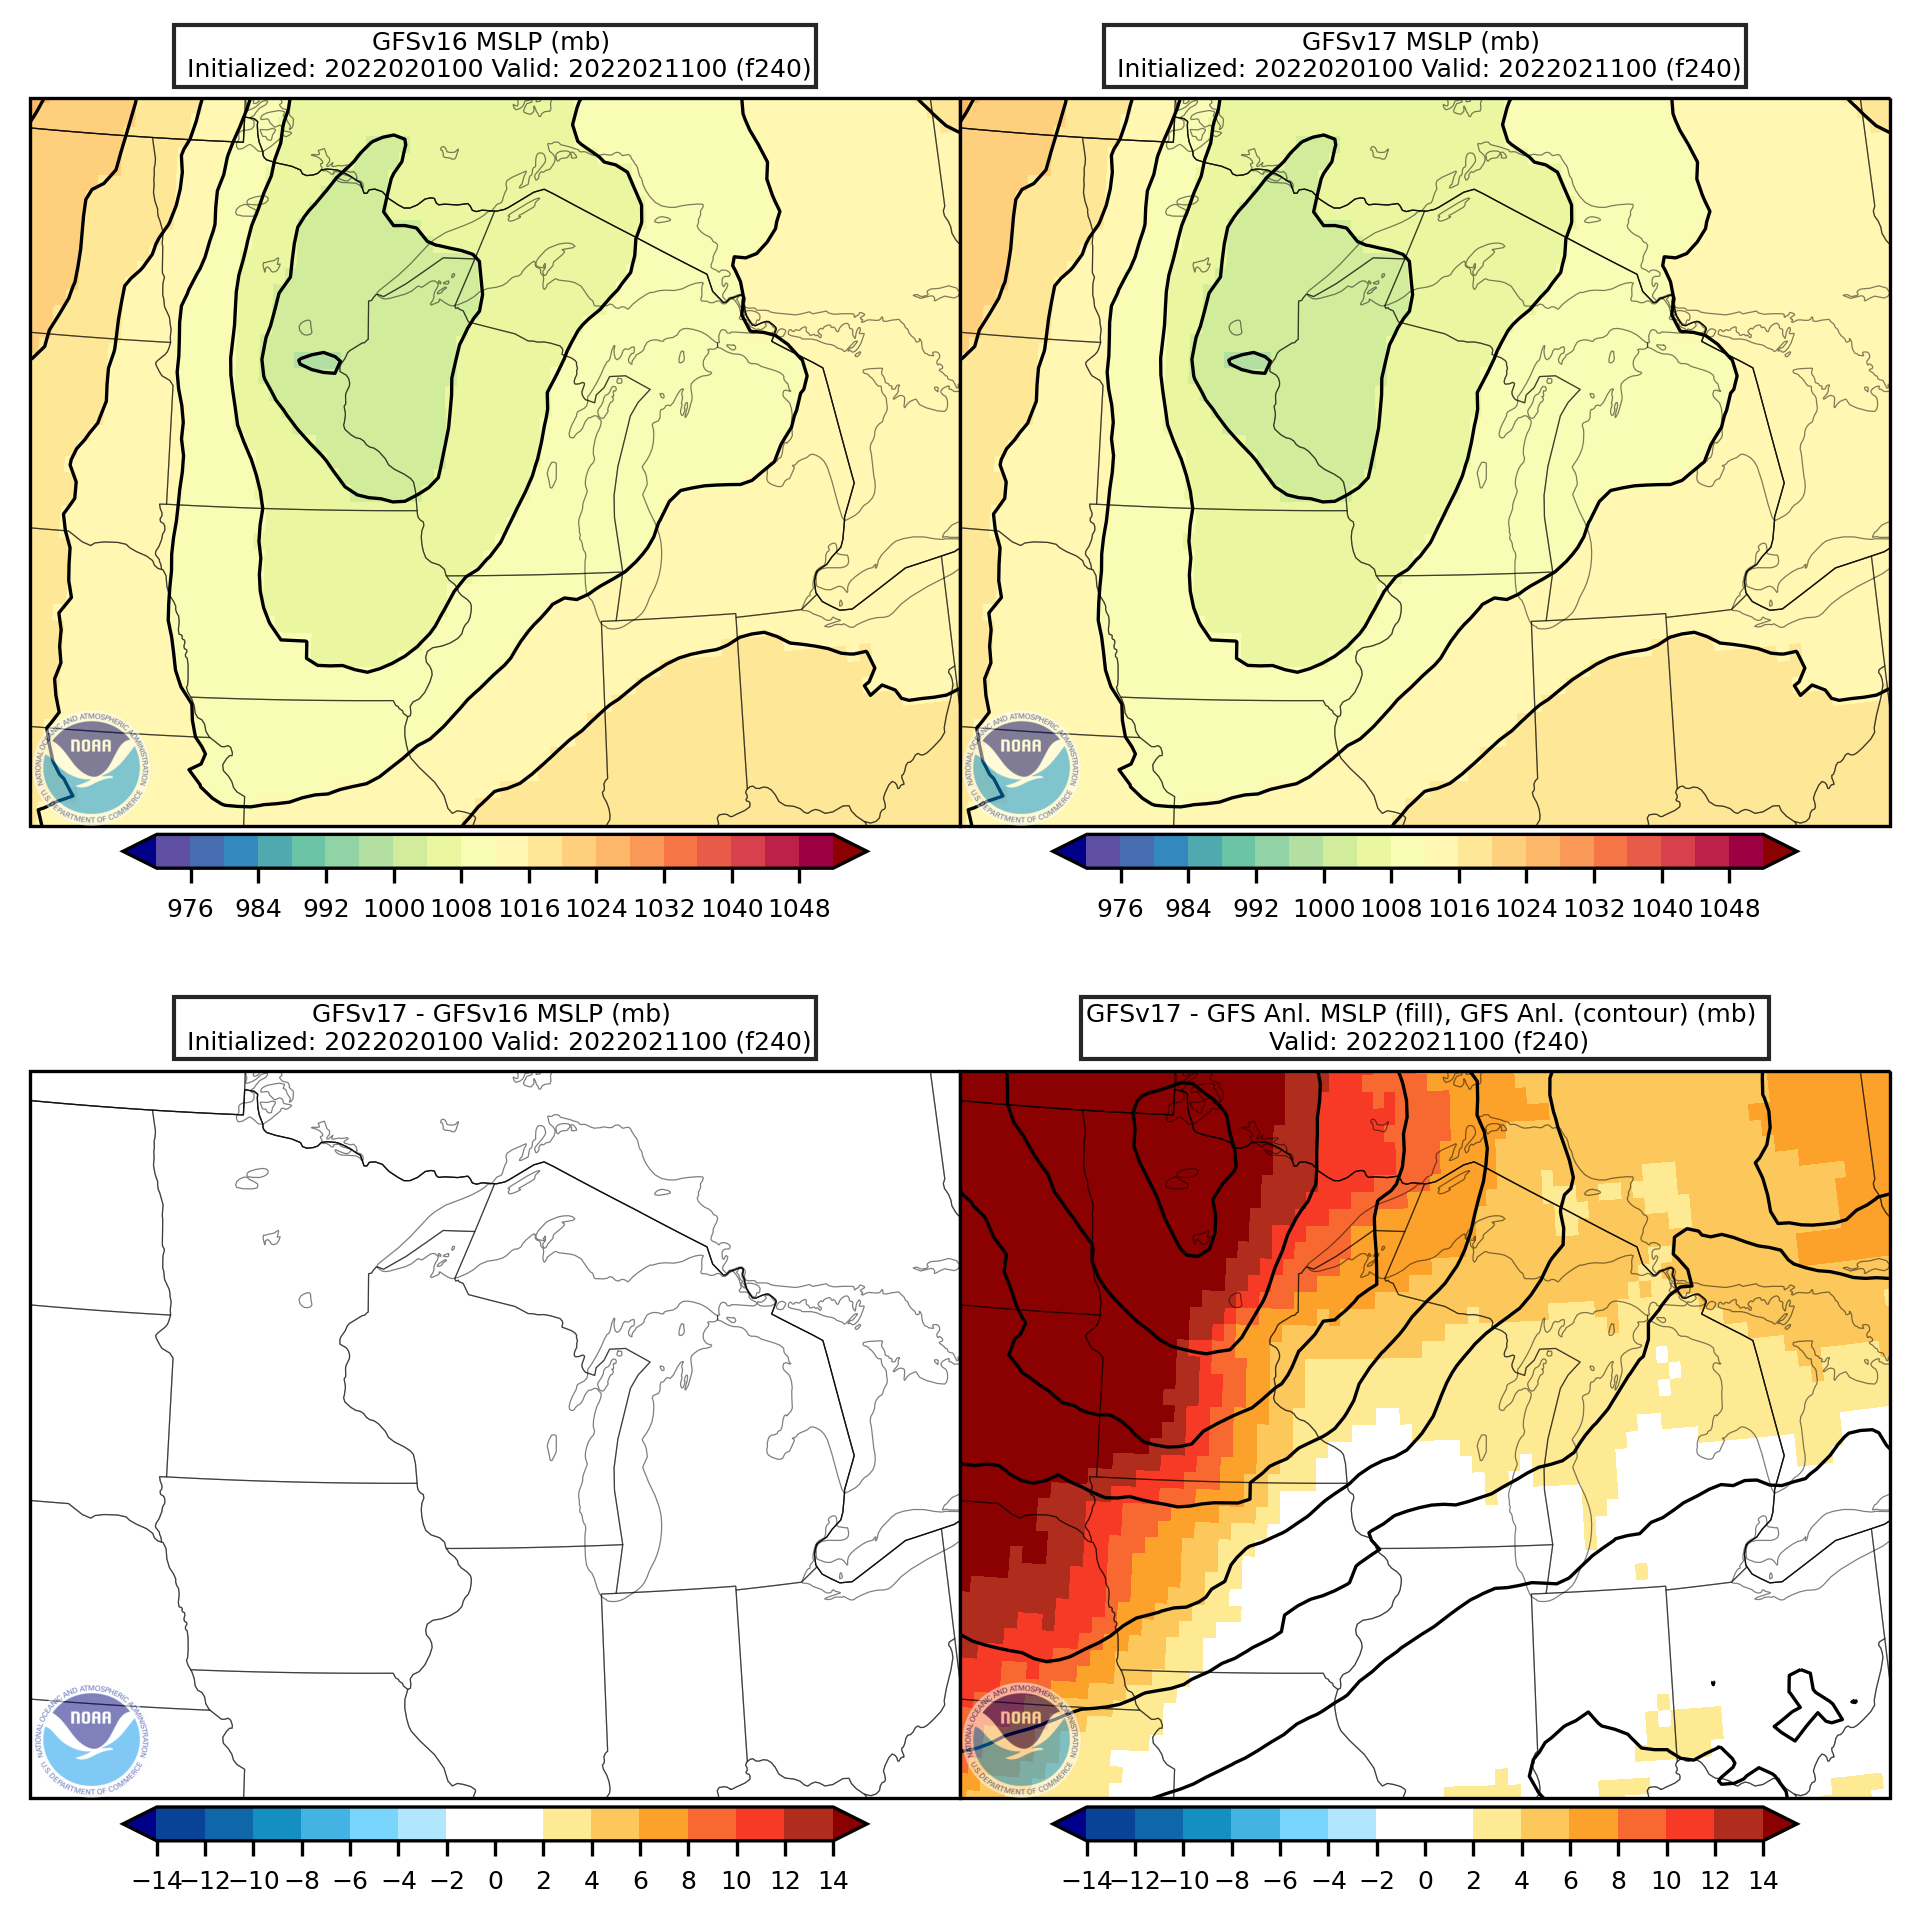
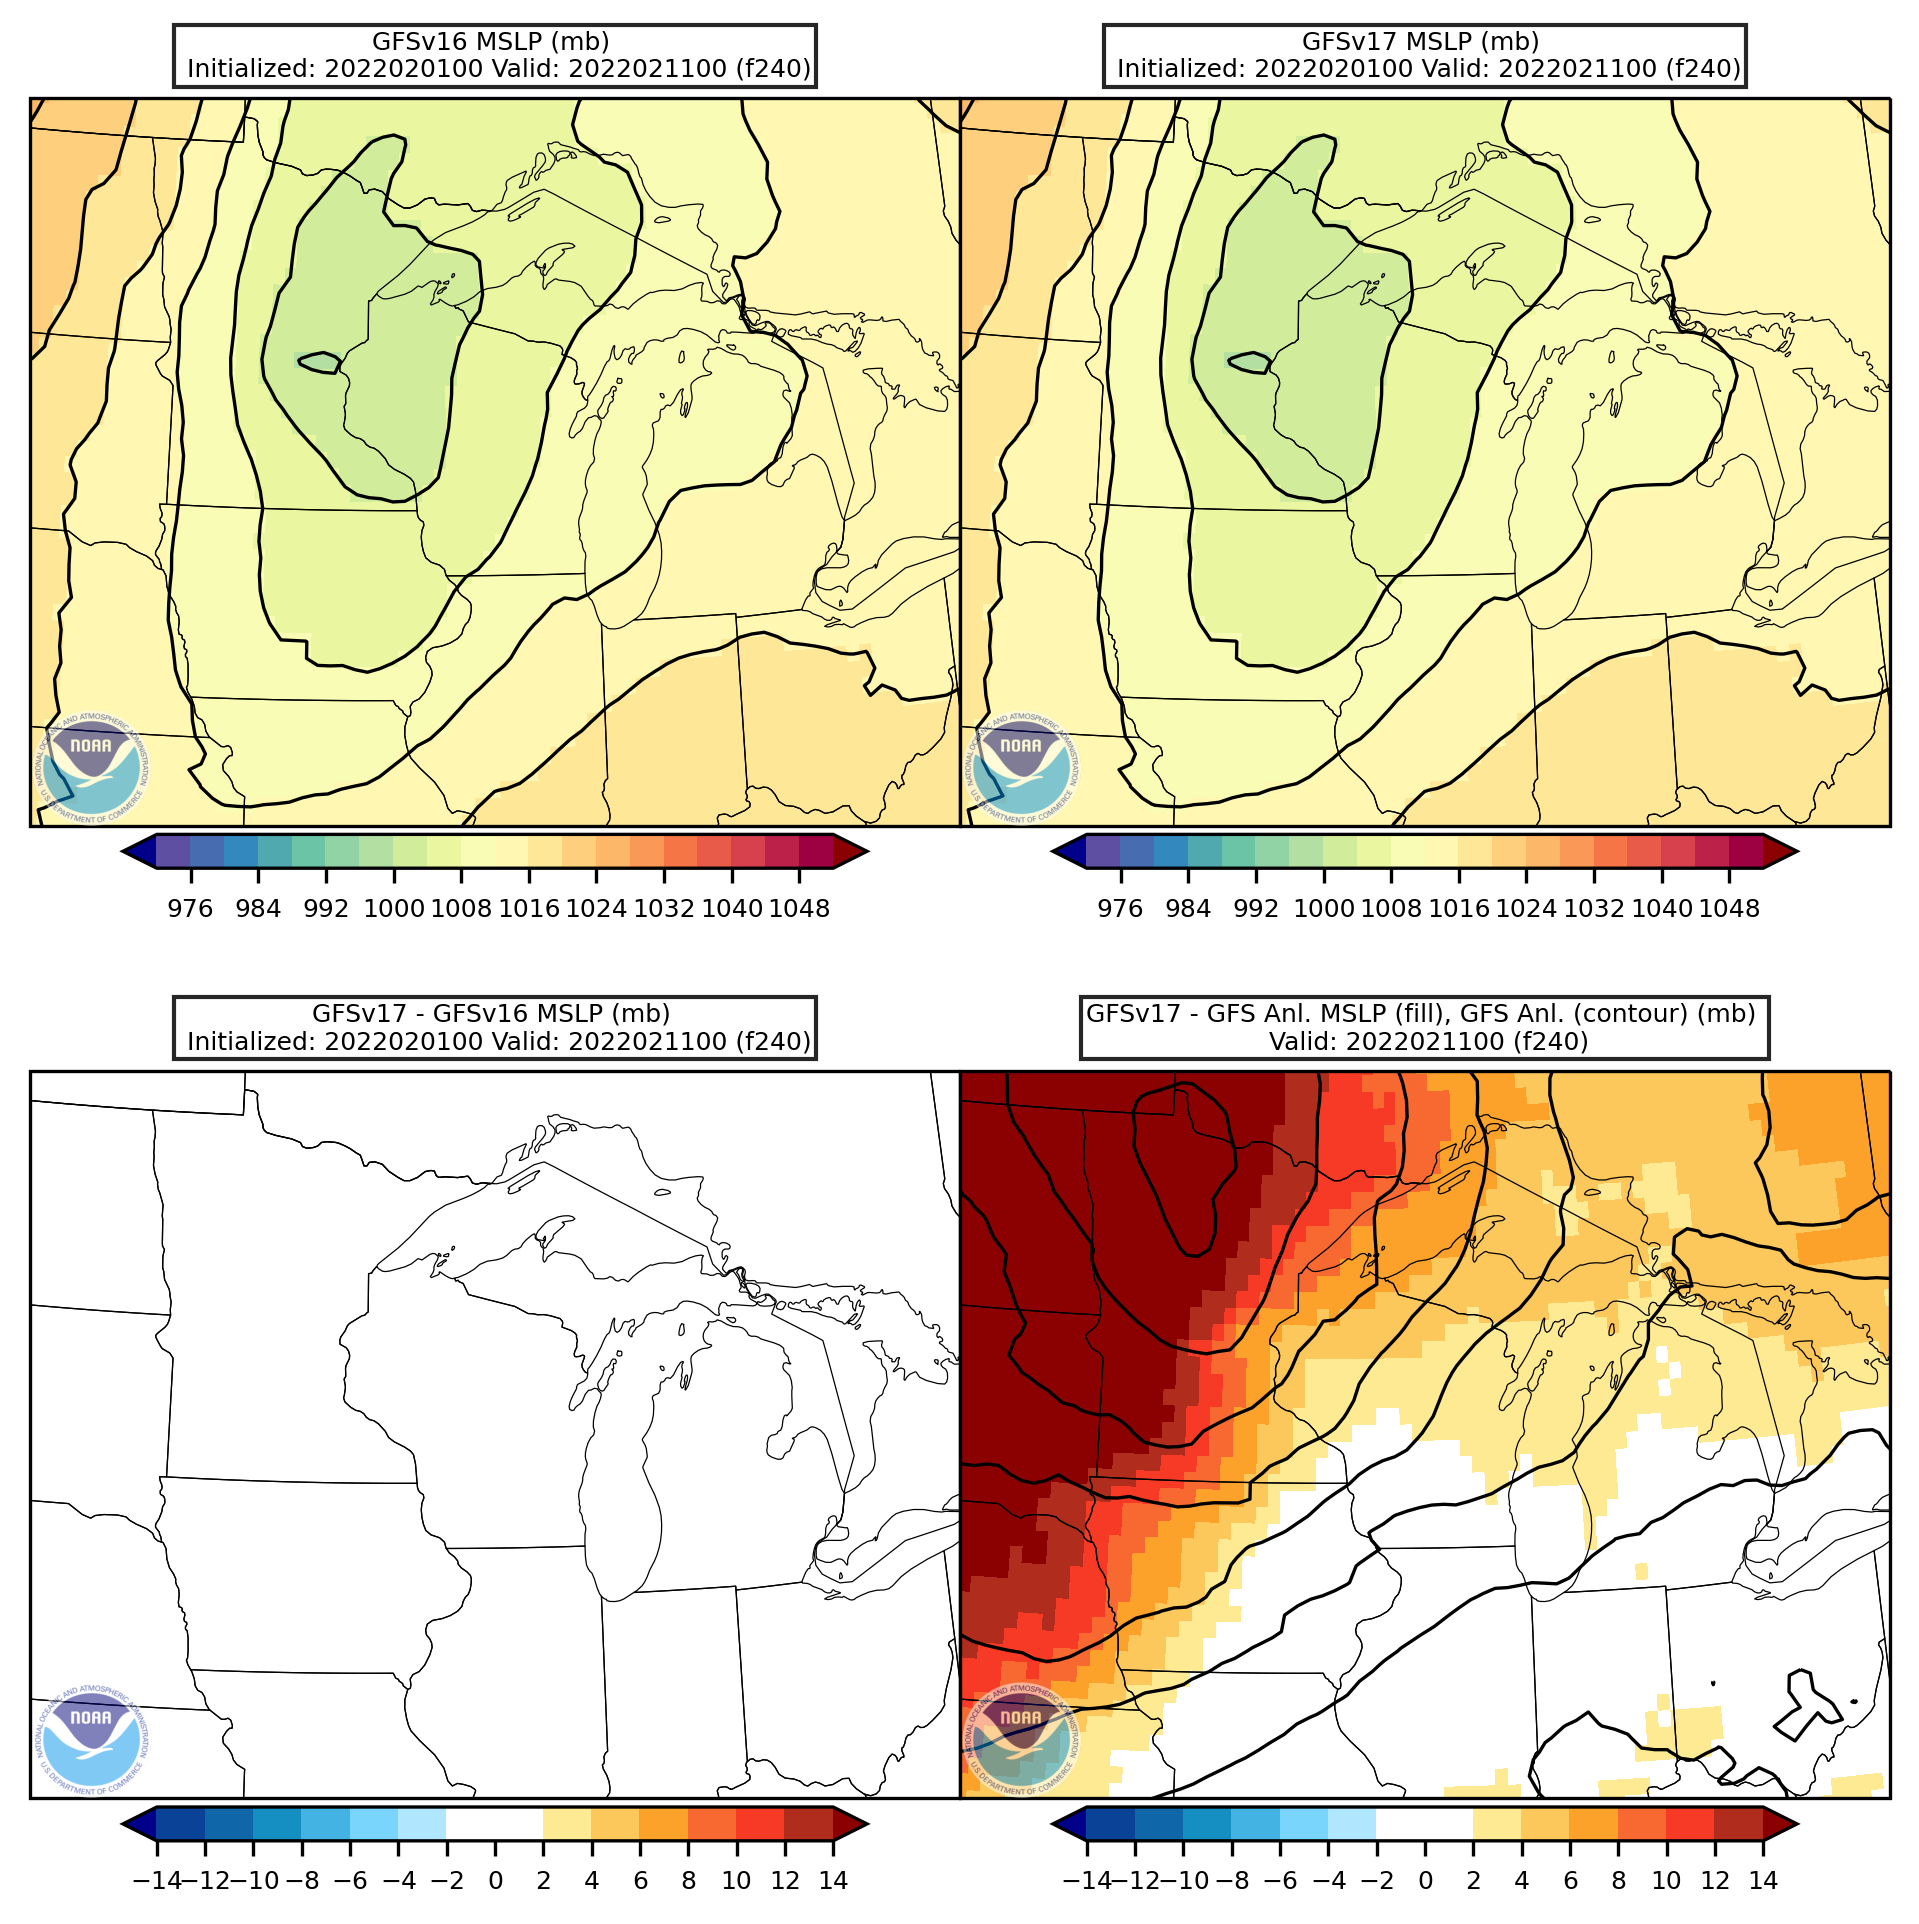
Updated Great Lakes outline in plotting script; added southcentral

diff --git a/plot_maps/plot_gfs_slp_4panel.py b/plot_maps/plot_gfs_slp_4panel.py
@@ -356,6 +356,15 @@ def create_figure():
     cen_lon = -91.5
     xextent=-422500
     yextent=52500
+  elif dom == 'southcentral':
+    llcrnrlon = -108.25
+    llcrnrlat = 24.05
+    urcrnrlon = -90.0
+    urcrnrlat = 37.25
+    cen_lat = 29.0
+    cen_lon = -98.0
+    xextent=-817500
+    yextent=-286000
 
 
 
@@ -420,16 +429,16 @@ def create_figure():
 #                    alpha=falpha)
   lakes=cfeature.NaturalEarthFeature('physical','lakes',back_res,
                     edgecolor='black',facecolor='none',
-                    linewidth=fline_wd_lakes,alpha=falpha)
+                    linewidth=fline_wd_lakes,zorder=1)
   coastlines=cfeature.NaturalEarthFeature('physical','coastline',
                     back_res,edgecolor='black',facecolor='none',
-                    linewidth=fline_wd,alpha=falpha)
+                    linewidth=fline_wd,zorder=1)
   states=cfeature.NaturalEarthFeature('cultural','admin_1_states_provinces',
                     back_res,edgecolor='black',facecolor='none',
-                    linewidth=fline_wd,alpha=falpha)
+                    linewidth=fline_wd,zorder=1)
   borders=cfeature.NaturalEarthFeature('cultural','admin_0_countries',
                     back_res,edgecolor='black',facecolor='none',
-                    linewidth=fline_wd,alpha=falpha)
+                    linewidth=fline_wd,zorder=1)
 
   # All lat lons are earth relative, so setup the associated projection correct for that data
   transform = ccrs.PlateCarree()
@@ -442,23 +451,43 @@ def create_figure():
     ax3.imshow(img, origin='upper', transform=transform)
     ax4.imshow(img, origin='upper', transform=transform)
 
-#  ax1.add_feature(land)
-  ax1.add_feature(lakes)
-  ax1.add_feature(states)
-  ax1.add_feature(borders)
-  ax1.add_feature(coastlines)
-  ax2.add_feature(lakes)
-  ax2.add_feature(states)
-  ax2.add_feature(borders)
-  ax2.add_feature(coastlines)
-  ax3.add_feature(lakes)
-  ax3.add_feature(states)
-  ax3.add_feature(borders)
-  ax3.add_feature(coastlines)
-  ax4.add_feature(lakes)
-  ax4.add_feature(states)
-  ax4.add_feature(borders)
-  ax4.add_feature(coastlines)
+#  ax1.add_feature(lakes)
+#  ax1.add_feature(states)
+#  ax1.add_feature(borders)
+#  ax1.add_feature(coastlines)
+  ax1.add_feature(cfeature.LAND.with_scale('50m'),facecolor='lightgray',edgecolor='face',linewidth=fline_wd) #Fill continents
+  ax1.add_feature(cfeature.LAKES.with_scale('50m'),facecolor='lightblue',edgecolor='face',linewidth=fline_wd) #Fill lakes
+  ax1.add_feature(cfeature.STATES.with_scale('50m'),linewidths=0.5,linestyle='solid',edgecolor='k',linewidth=fline_wd,zorder=4)
+  ax1.add_feature(cfeature.BORDERS.with_scale('50m'),linewidths=1.0,linestyle='solid',edgecolor='k',linewidth=fline_wd,zorder=4)
+  ax1.add_feature(cfeature.COASTLINE.with_scale('50m'),linewidths=1.0,linestyle='solid',edgecolor='k',linewidth=fline_wd,zorder=4)
+#  ax2.add_feature(lakes)
+#  ax2.add_feature(states)
+#  ax2.add_feature(borders)
+#  ax2.add_feature(coastlines)
+  ax2.add_feature(cfeature.LAND.with_scale('50m'),facecolor='lightgray',edgecolor='face',linewidth=fline_wd) #Fill continents
+  ax2.add_feature(cfeature.LAKES.with_scale('50m'),facecolor='lightblue',edgecolor='face',linewidth=fline_wd) #Fill lakes
+  ax2.add_feature(cfeature.STATES.with_scale('50m'),linewidths=0.5,linestyle='solid',edgecolor='k',linewidth=fline_wd,zorder=4)
+  ax2.add_feature(cfeature.BORDERS.with_scale('50m'),linewidths=1.0,linestyle='solid',edgecolor='k',linewidth=fline_wd,zorder=4)
+  ax2.add_feature(cfeature.COASTLINE.with_scale('50m'),linewidths=1.0,linestyle='solid',edgecolor='k',linewidth=fline_wd,zorder=4)
+#  ax3.add_feature(lakes)
+#  ax3.add_feature(states)
+#  ax3.add_feature(borders)
+#  ax3.add_feature(coastlines)
+  ax3.add_feature(cfeature.LAND.with_scale('50m'),facecolor='lightgray',edgecolor='face',linewidth=fline_wd) #Fill continents
+  ax3.add_feature(cfeature.LAKES.with_scale('50m'),facecolor='lightblue',edgecolor='face',linewidth=fline_wd) #Fill lakes
+  ax3.add_feature(cfeature.STATES.with_scale('50m'),linewidths=0.5,linestyle='solid',edgecolor='k',linewidth=fline_wd,zorder=4)
+  ax3.add_feature(cfeature.BORDERS.with_scale('50m'),linewidths=1.0,linestyle='solid',edgecolor='k',linewidth=fline_wd,zorder=4)
+  ax3.add_feature(cfeature.COASTLINE.with_scale('50m'),linewidths=1.0,linestyle='solid',edgecolor='k',linewidth=fline_wd,zorder=4)
+#  ax4.add_feature(lakes)
+#  ax4.add_feature(states)
+#  ax4.add_feature(borders)
+#  ax4.add_feature(coastlines)
+  ax4.add_feature(cfeature.LAND.with_scale('50m'),facecolor='lightgray',edgecolor='face',linewidth=fline_wd) #Fill continents
+  ax4.add_feature(cfeature.LAKES.with_scale('50m'),facecolor='lightblue',edgecolor='face',linewidth=fline_wd) #Fill lakes
+  ax4.add_feature(cfeature.STATES.with_scale('50m'),linewidths=0.5,linestyle='solid',edgecolor='k',linewidth=fline_wd,zorder=4)
+  ax4.add_feature(cfeature.BORDERS.with_scale('50m'),linewidths=1.0,linestyle='solid',edgecolor='k',linewidth=fline_wd,zorder=4)
+  ax4.add_feature(cfeature.COASTLINE.with_scale('50m'),linewidths=1.0,linestyle='solid',edgecolor='k',linewidth=fline_wd,zorder=4)
+
 
   # Map/figure has been set up here, save axes instances for use again later
   keep_ax_lst_1 = ax1.get_children()[:]
@@ -524,45 +553,45 @@ def plot_set_1():
   xmax = int(round(xmax))
   ymax = int(round(ymax))
 
-  cs_1 = ax1.pcolormesh(lon_shift,lat_shift,slp_1,vmin=5,norm=norm,transform=transform,cmap=cm1)
+  cs_1 = ax1.pcolormesh(lon_shift,lat_shift,slp_1,vmin=5,norm=norm,transform=transform,cmap=cm1,zorder=2)
   cs_1.cmap.set_under('darkblue')
   cs_1.cmap.set_over('darkred')
-  cs_1b = ax1.contour(lon_shift,lat_shift,slp_1,np.arange(940,1060,4),colors='black',linewidths=thick,transform=transform)
+  cs_1b = ax1.contour(lon_shift,lat_shift,slp_1,np.arange(940,1060,4),colors='black',linewidths=thick,transform=transform,zorder=3)
   cbar1 = plt.colorbar(cs_1,ax=ax1,orientation='horizontal',pad=0.01,ticks=clevs_thin,shrink=0.8,extend='both')
 #  cbar1.set_label(units,fontsize=6)
   cbar1.ax.tick_params(labelsize=6)
   ax1.text(.5,1.03,'GFSv16 MSLP ('+units+') \n Initialized: '+itime+' Valid: '+vtime + ' (f'+fhour+')',horizontalalignment='center',fontsize=6,transform=ax1.transAxes,bbox=dict(facecolor='white',alpha=0.85,boxstyle='square,pad=0.2'))
-  ax1.imshow(im,aspect='equal',alpha=0.5,origin='upper',extent=(xmin,xextent,ymin,yextent),zorder=4)
+  ax1.imshow(im,aspect='equal',alpha=0.5,origin='upper',extent=(xmin,xextent,ymin,yextent),zorder=5)
 
-  cs_2 = ax2.pcolormesh(lon_shift,lat_shift,slp_2,vmin=5,norm=norm,transform=transform,cmap=cm2)
+  cs_2 = ax2.pcolormesh(lon_shift,lat_shift,slp_2,vmin=5,norm=norm,transform=transform,cmap=cm2,zorder=2)
   cs_2.cmap.set_under('darkblue')
   cs_2.cmap.set_over('darkred')
-  cs_2b = ax2.contour(lon_shift,lat_shift,slp_2,np.arange(940,1060,4),colors='black',linewidths=thick,transform=transform)
+  cs_2b = ax2.contour(lon_shift,lat_shift,slp_2,np.arange(940,1060,4),colors='black',linewidths=thick,transform=transform,zorder=3)
   cbar2 = plt.colorbar(cs_2,ax=ax2,orientation='horizontal',pad=0.01,ticks=clevs_thin,shrink=0.8,extend='both')
 #  cbar2.set_label(units,fontsize=6)
   cbar2.ax.tick_params(labelsize=6)
   ax2.text(.5,1.03,'GFSv17 MSLP ('+units+') \n Initialized: '+itime+' Valid: '+vtime + ' (f'+fhour+')',horizontalalignment='center',fontsize=6,transform=ax2.transAxes,bbox=dict(facecolor='white',alpha=0.85,boxstyle='square,pad=0.2'))
-  ax2.imshow(im,aspect='equal',alpha=0.5,origin='upper',extent=(xmin,xextent,ymin,yextent),zorder=4)
+  ax2.imshow(im,aspect='equal',alpha=0.5,origin='upper',extent=(xmin,xextent,ymin,yextent),zorder=5)
 
-#  cs_3 = ax3.pcolormesh(lon_shift,lat_shift,slp_3,vmin=5,norm=norm,transform=transform,cmap=cm3)
-  cs_3 = ax3.pcolormesh(lon_shift,lat_shift,slp_dif_fcst,transform=transform,cmap=cmdif,norm=normdif)
+#  cs_3 = ax3.pcolormesh(lon_shift,lat_shift,slp_3,vmin=5,norm=norm,transform=transform,cmap=cm3,zorder=2)
+  cs_3 = ax3.pcolormesh(lon_shift,lat_shift,slp_dif_fcst,transform=transform,cmap=cmdif,norm=normdif,zorder=2)
   cs_3.cmap.set_under('darkblue')
   cs_3.cmap.set_over('darkred')
   cbar3 = plt.colorbar(cs_3,ax=ax3,orientation='horizontal',pad=0.01,ticks=clevsdif,shrink=0.8,extend='both')
 #  cbar3.set_label(units,fontsize=6)
   cbar3.ax.tick_params(labelsize=6)
   ax3.text(.5,1.03,'GFSv17 - GFSv16 MSLP ('+units+') \n Initialized: '+itime+' Valid: '+vtime + ' (f'+fhour+')',horizontalalignment='center',fontsize=6,transform=ax3.transAxes,bbox=dict(facecolor='white',alpha=0.85,boxstyle='square,pad=0.2'))
-  ax3.imshow(im,aspect='equal',alpha=0.5,origin='upper',extent=(xmin,xextent,ymin,yextent),zorder=4)
+  ax3.imshow(im,aspect='equal',alpha=0.5,origin='upper',extent=(xmin,xextent,ymin,yextent),zorder=5)
 
-  cs_4 = ax4.pcolormesh(lon_shift,lat_shift,slp_dif_anl,transform=transform,cmap=cmdif,norm=normdif)
+  cs_4 = ax4.pcolormesh(lon_shift,lat_shift,slp_dif_anl,transform=transform,cmap=cmdif,norm=normdif,zorder=2)
 #  cs_4.cmap.set_under('gray')
 #  cs_4.cmap.set_over('gray')
-  cs_4b = ax4.contour(lon_shift,lat_shift,slp_4,np.arange(940,1060,4),colors='black',linewidths=thick,transform=transform)
+  cs_4b = ax4.contour(lon_shift,lat_shift,slp_4,np.arange(940,1060,4),colors='black',linewidths=thick,transform=transform,zorder=3)
   cbar4 = plt.colorbar(cs_4,ax=ax4,orientation='horizontal',pad=0.01,ticks=clevsdif,shrink=0.8,extend='both')
 #  cbar4.set_label(units,fontsize=6)
   cbar4.ax.tick_params(labelsize=6)
   ax4.text(.5,1.03,'GFSv17 - GFS Anl. MSLP (fill), GFS Anl. (contour) ('+units+') \n Valid: '+vtime + ' (f'+fhour+')',horizontalalignment='center',fontsize=6,transform=ax4.transAxes,bbox=dict(facecolor='white',alpha=0.85,boxstyle='square,pad=0.2'))
-  ax4.imshow(im,aspect='equal',alpha=0.5,origin='upper',extent=(xmin,xextent,ymin,yextent),zorder=4)
+  ax4.imshow(im,aspect='equal',alpha=0.5,origin='upper',extent=(xmin,xextent,ymin,yextent),zorder=5)
 
 
   plt.savefig('gfs_'+dom+'_slp_'+case+'_'+counter+'.png', format='png', bbox_inches='tight', dpi=300)
